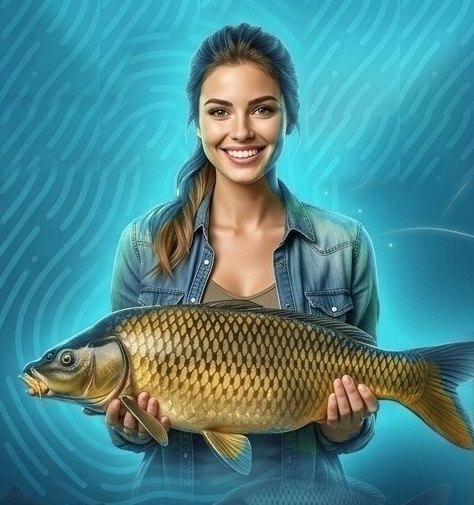
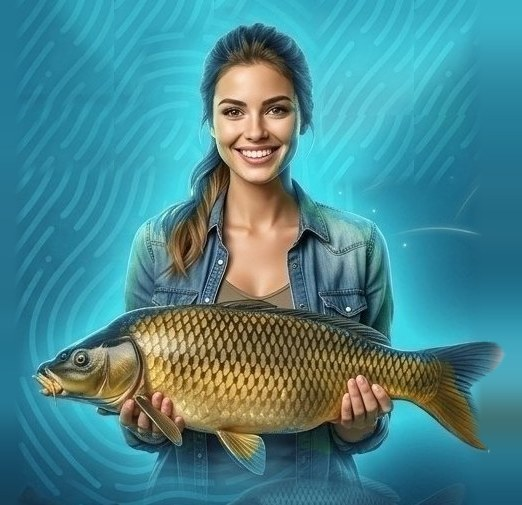
риба

diff --git a/public/ru/fishing-app.html b/public/ru/fishing-app.html
@@ -56,7 +56,7 @@
 <nav class="main" aria-label="Страницы"><a href="/ru/fishing-app" aria-current="page">О приложении</a><a href="/ru/fishing-diary">Рыболовный дневник</a><a href="/ru/catch-statistics">Статистика</a><a href="/ru/offline-fishing-app">Без интернета</a><a href="/ru/waters-and-competitions">Водоёмы и соревнования</a><a href="/ru/install">Установка</a><a href="/ru/contact">Контакты</a></nav>
 </div></header>
 <main><div class="wrap"><article>
-<section class="hero"><div class="hero-text"><p class="hero-title">Лови момент. Сохрани улов.</p><p class="hero-tag">Твоя рыбалка. Одно приложение.</p><ul><li>Записывай свой улов</li><li>Открывай новые водоёмы</li><li>Следи за своими рыболовными приключениями</li><li>Найди всё нужное для следующей вылазки</li></ul><a class="open" href="/register">Создать профиль</a></div><img class="hero-img" src="/img/woman-with-carp.jpg" width="474" height="505" alt="Улыбающаяся женщина держит крупного карпа"></section>
+<section class="hero"><div class="hero-text"><p class="hero-title">Лови момент. Сохрани улов.</p><p class="hero-tag">Твоя рыбалка. Одно приложение.</p><ul><li>Записывай свой улов</li><li>Открывай новые водоёмы</li><li>Следи за своими рыболовными приключениями</li><li>Найди всё нужное для следующей вылазки</li></ul><a class="open" href="/register">Создать профиль</a></div><img class="hero-img" src="/img/woman-with-carp.jpg" width="522" height="505" alt="Улыбающаяся женщина держит крупного карпа"></section>
 <h1>Рыболовное приложение: дневник и статистика уловов</h1>
 <p class="lead">CatchCount — рыболовный дневник для телефона. Вы записываете улов несколькими касаниями прямо на берегу, а приложение собирает данные и показывает, что и где действительно работает.</p>
 <figure class="shot"><img src="/img/catchcount-app-screens.jpg" width="440" height="302" loading="lazy" alt="Экраны приложения CatchCount: активная сессия с таймером, календарь сессий и детали улова"></figure>

diff --git a/public/uk/fishing-app.html b/public/uk/fishing-app.html
@@ -56,7 +56,7 @@
 <nav class="main" aria-label="Сторінки"><a href="/uk/fishing-app" aria-current="page">Про застосунок</a><a href="/uk/fishing-diary">Рибальський щоденник</a><a href="/uk/catch-statistics">Статистика</a><a href="/uk/offline-fishing-app">Без інтернету</a><a href="/uk/waters-and-competitions">Водойми та змагання</a><a href="/uk/install">Встановлення</a><a href="/uk/contact">Контакти</a></nav>
 </div></header>
 <main><div class="wrap"><article>
-<section class="hero"><div class="hero-text"><p class="hero-title">Лови мить. Збережи улов.</p><p class="hero-tag">Твоя риболовля. Один застосунок.</p><ul><li>Записуй свій улов</li><li>Відкривай нові водойми</li><li>Стеж за своїми рибальськими пригодами</li><li>Знайди все потрібне для наступного виїзду</li></ul><a class="open" href="/register">Створити профіль</a></div><img class="hero-img" src="/img/woman-with-carp.jpg" width="474" height="505" alt="Усміхнена жінка тримає великого коропа"></section>
+<section class="hero"><div class="hero-text"><p class="hero-title">Лови мить. Збережи улов.</p><p class="hero-tag">Твоя риболовля. Один застосунок.</p><ul><li>Записуй свій улов</li><li>Відкривай нові водойми</li><li>Стеж за своїми рибальськими пригодами</li><li>Знайди все потрібне для наступного виїзду</li></ul><a class="open" href="/register">Створити профіль</a></div><img class="hero-img" src="/img/woman-with-carp.jpg" width="522" height="505" alt="Усміхнена жінка тримає великого коропа"></section>
 <h1>Рибальський застосунок для щоденника та статистики уловів</h1>
 <p class="lead">CatchCount — це рибальський щоденник для телефона. Ти записуєш улов кількома дотиками просто на березі, а застосунок збирає дані й показує, що і де справді працює.</p>
 <figure class="shot"><img src="/img/catchcount-app-screens.jpg" width="440" height="302" loading="lazy" alt="Екрани застосунку CatchCount: активна сесія з таймером, календар сесій і деталі улову"></figure>

diff --git a/public/mk/fishing-app.html b/public/mk/fishing-app.html
@@ -56,7 +56,7 @@
 <nav class="main" aria-label="Страници"><a href="/mk/fishing-app" aria-current="page">За апликацијата</a><a href="/mk/fishing-diary">Риболовен дневник</a><a href="/mk/catch-statistics">Статистика</a><a href="/mk/offline-fishing-app">Без интернет</a><a href="/mk/waters-and-competitions">Водоеми и натпревари</a><a href="/mk/install">Инсталирање</a><a href="/mk/contact">Контакт</a></nav>
 </div></header>
 <main><div class="wrap"><article>
-<section class="hero"><div class="hero-text"><p class="hero-title">Фати го моментот. Зачувај го уловот.</p><p class="hero-tag">Твојот риболов. Една апликација.</p><ul><li>Запишувај го уловот</li><li>Откривај водоеми</li><li>Следи ги риболовните авантури</li><li>Најди сè што ти треба за следниот излет</li></ul><a class="open" href="/register">Креирај профил</a></div><img class="hero-img" src="/img/woman-with-carp.jpg" width="474" height="505" alt="Насмеана жена држи голем шаран"></section>
+<section class="hero"><div class="hero-text"><p class="hero-title">Фати го моментот. Зачувај го уловот.</p><p class="hero-tag">Твојот риболов. Една апликација.</p><ul><li>Запишувај го уловот</li><li>Откривај водоеми</li><li>Следи ги риболовните авантури</li><li>Најди сè што ти треба за следниот излет</li></ul><a class="open" href="/register">Креирај профил</a></div><img class="hero-img" src="/img/woman-with-carp.jpg" width="522" height="505" alt="Насмеана жена држи голем шаран"></section>
 <h1>Риболовна апликација за дневник и статистика на уловите</h1>
 <p class="lead">CatchCount е риболовен дневник за телефон. Го запишуваш уловот со неколку допири веднаш на брегот, а апликацијата ги собира податоците и ти покажува што и каде навистина функционира.</p>
 <figure class="shot"><img src="/img/catchcount-app-screens.jpg" width="440" height="302" loading="lazy" alt="Екрани од апликацијата CatchCount: активна сесија со тајмер, календар на сесиите и детали за улов"></figure>

diff --git a/public/ribolovno-prilozhenie.html b/public/ribolovno-prilozhenie.html
@@ -56,7 +56,7 @@
 <nav class="main" aria-label="Страници"><a href="/ribolovno-prilozhenie" aria-current="page">За приложението</a><a href="/riboloven-dnevnik">Риболовен дневник</a><a href="/statistika-na-ulovite">Статистика</a><a href="/ribolov-bez-internet">Без интернет</a><a href="/vodoemi-i-sastezaniya">Водоеми и състезания</a><a href="/kak-da-instalirate">Инсталиране</a><a href="/kontakti">Контакти</a></nav>
 </div></header>
 <main><div class="wrap"><article>
-<section class="hero"><div class="hero-text"><p class="hero-title">Хвани момента. Запази улова.</p><p class="hero-tag">Твоят риболов. Едно приложение.</p><ul><li>Записвай улова си</li><li>Откривай водоеми</li><li>Следи риболовните си приключения</li><li>Намери всичко необходимо за следващия излет</li></ul><a class="open" href="/register">Създай профил</a></div><img class="hero-img" src="/img/woman-with-carp.jpg" width="474" height="505" alt="Усмихната жена държи голям шаран"></section>
+<section class="hero"><div class="hero-text"><p class="hero-title">Хвани момента. Запази улова.</p><p class="hero-tag">Твоят риболов. Едно приложение.</p><ul><li>Записвай улова си</li><li>Откривай водоеми</li><li>Следи риболовните си приключения</li><li>Намери всичко необходимо за следващия излет</li></ul><a class="open" href="/register">Създай профил</a></div><img class="hero-img" src="/img/woman-with-carp.jpg" width="522" height="505" alt="Усмихната жена държи голям шаран"></section>
 <h1>Риболовно приложение за дневник и статистика на уловите</h1>
 <p class="lead">CatchCount е риболовен дневник за телефона. Записваш улова с няколко докосвания още на брега, а приложението събира данните и ти показва какво и къде наистина работи.</p>
 <figure class="shot"><img src="/img/catchcount-app-screens.jpg" width="440" height="302" loading="lazy" alt="Екрани на приложението CatchCount: активна сесия с таймер, календар на сесиите и детайли за улов"></figure>

diff --git a/public/fr/fishing-app.html b/public/fr/fishing-app.html
@@ -56,7 +56,7 @@
 <nav class="main" aria-label="Pages"><a href="/fr/fishing-app" aria-current="page">L&#x27;application</a><a href="/fr/fishing-diary">Carnet de pêche</a><a href="/fr/catch-statistics">Statistiques</a><a href="/fr/offline-fishing-app">Sans internet</a><a href="/fr/waters-and-competitions">Plans d&#x27;eau, compétitions</a><a href="/fr/install">Installation</a><a href="/fr/contact">Contact</a></nav>
 </div></header>
 <main><div class="wrap"><article>
-<section class="hero"><div class="hero-text"><p class="hero-title">Capture l&#x27;instant. Garde ta prise.</p><p class="hero-tag">Ta pêche. Une seule appli.</p><ul><li>Note tes prises</li><li>Découvre des plans d&#x27;eau</li><li>Suis tes aventures de pêche</li><li>Trouve tout ce qu&#x27;il te faut pour ta prochaine sortie</li></ul><a class="open" href="/register">Créer un compte</a></div><img class="hero-img" src="/img/woman-with-carp.jpg" width="474" height="505" alt="Une femme souriante tient une grosse carpe commune"></section>
+<section class="hero"><div class="hero-text"><p class="hero-title">Capture l&#x27;instant. Garde ta prise.</p><p class="hero-tag">Ta pêche. Une seule appli.</p><ul><li>Note tes prises</li><li>Découvre des plans d&#x27;eau</li><li>Suis tes aventures de pêche</li><li>Trouve tout ce qu&#x27;il te faut pour ta prochaine sortie</li></ul><a class="open" href="/register">Créer un compte</a></div><img class="hero-img" src="/img/woman-with-carp.jpg" width="522" height="505" alt="Une femme souriante tient une grosse carpe commune"></section>
 <h1>Application de pêche : carnet et statistiques de captures</h1>
 <p class="lead">CatchCount est un carnet de pêche pour ton téléphone. Tu enregistres ta prise en quelques touches, directement sur la berge, et l'application rassemble les données pour te montrer ce qui marche vraiment, et où.</p>
 <figure class="shot"><img src="/img/catchcount-app-screens.jpg" width="440" height="302" loading="lazy" alt="Écrans de l&#x27;application CatchCount : session active avec minuteur, calendrier des sessions et détails d&#x27;une prise"></figure>

diff --git a/public/ro/fishing-app.html b/public/ro/fishing-app.html
@@ -56,7 +56,7 @@
 <nav class="main" aria-label="Pagini"><a href="/ro/fishing-app" aria-current="page">Despre aplicație</a><a href="/ro/fishing-diary">Jurnal de pescuit</a><a href="/ro/catch-statistics">Statistici</a><a href="/ro/offline-fishing-app">Fără internet</a><a href="/ro/waters-and-competitions">Bazine și concursuri</a><a href="/ro/install">Instalare</a><a href="/ro/contact">Contact</a></nav>
 </div></header>
 <main><div class="wrap"><article>
-<section class="hero"><div class="hero-text"><p class="hero-title">Prinde momentul. Păstrează captura.</p><p class="hero-tag">Pescuitul tău. O singură aplicație.</p><ul><li>Înregistrează-ți capturile</li><li>Descoperă bazine</li><li>Urmărește-ți aventurile de pescuit</li><li>Găsește tot ce ai nevoie pentru următoarea ieșire</li></ul><a class="open" href="/register">Creează un cont</a></div><img class="hero-img" src="/img/woman-with-carp.jpg" width="474" height="505" alt="O femeie zâmbitoare ține în mâini un crap mare"></section>
+<section class="hero"><div class="hero-text"><p class="hero-title">Prinde momentul. Păstrează captura.</p><p class="hero-tag">Pescuitul tău. O singură aplicație.</p><ul><li>Înregistrează-ți capturile</li><li>Descoperă bazine</li><li>Urmărește-ți aventurile de pescuit</li><li>Găsește tot ce ai nevoie pentru următoarea ieșire</li></ul><a class="open" href="/register">Creează un cont</a></div><img class="hero-img" src="/img/woman-with-carp.jpg" width="522" height="505" alt="O femeie zâmbitoare ține în mâini un crap mare"></section>
 <h1>Aplicație de pescuit pentru jurnal și statistici ale capturilor</h1>
 <p class="lead">CatchCount este un jurnal de pescuit pentru telefon. Îți înregistrezi captura din câteva atingeri, chiar pe mal, iar aplicația adună datele și îți arată ce funcționează cu adevărat și unde.</p>
 <figure class="shot"><img src="/img/catchcount-app-screens.jpg" width="440" height="302" loading="lazy" alt="Ecrane ale aplicației CatchCount: sesiune activă cu cronometru, calendarul sesiunilor și detaliile unei capturi"></figure>

diff --git a/public/hu/fishing-app.html b/public/hu/fishing-app.html
@@ -56,7 +56,7 @@
 <nav class="main" aria-label="Oldalak"><a href="/hu/fishing-app" aria-current="page">Az appról</a><a href="/hu/fishing-diary">Horgásznapló</a><a href="/hu/catch-statistics">Statisztika</a><a href="/hu/offline-fishing-app">Internet nélkül</a><a href="/hu/waters-and-competitions">Vizek és versenyek</a><a href="/hu/install">Telepítés</a><a href="/hu/contact">Kapcsolat</a></nav>
 </div></header>
 <main><div class="wrap"><article>
-<section class="hero"><div class="hero-text"><p class="hero-title">Kapd el a pillanatot. Őrizd meg a fogást.</p><p class="hero-tag">A te horgászatod. Egyetlen app.</p><ul><li>Rögzítsd a fogásaidat</li><li>Fedezz fel új vizeket</li><li>Kövesd a horgászkalandjaidat</li><li>Találj meg mindent a következő kiránduláshoz</li></ul><a class="open" href="/register">Fiók létrehozása</a></div><img class="hero-img" src="/img/woman-with-carp.jpg" width="474" height="505" alt="Mosolygó nő egy nagy pontyot tart a kezében"></section>
+<section class="hero"><div class="hero-text"><p class="hero-title">Kapd el a pillanatot. Őrizd meg a fogást.</p><p class="hero-tag">A te horgászatod. Egyetlen app.</p><ul><li>Rögzítsd a fogásaidat</li><li>Fedezz fel új vizeket</li><li>Kövesd a horgászkalandjaidat</li><li>Találj meg mindent a következő kiránduláshoz</li></ul><a class="open" href="/register">Fiók létrehozása</a></div><img class="hero-img" src="/img/woman-with-carp.jpg" width="522" height="505" alt="Mosolygó nő egy nagy pontyot tart a kezében"></section>
 <h1>Horgászalkalmazás fogásnaplóhoz és statisztikához</h1>
 <p class="lead">A CatchCount egy horgásznapló a telefonodra. Néhány koppintással rögzíted a fogást még a parton, az alkalmazás pedig összegyűjti az adatokat, és megmutatja, mi és hol működik igazán.</p>
 <figure class="shot"><img src="/img/catchcount-app-screens.jpg" width="440" height="302" loading="lazy" alt="A CatchCount alkalmazás képernyői: aktív munkamenet időmérővel, a munkamenetek naptára és a fogás részletei"></figure>

diff --git a/public/it/fishing-app.html b/public/it/fishing-app.html
@@ -56,7 +56,7 @@
 <nav class="main" aria-label="Pagine"><a href="/it/fishing-app" aria-current="page">L&#x27;app</a><a href="/it/fishing-diary">Diario di pesca</a><a href="/it/catch-statistics">Statistiche</a><a href="/it/offline-fishing-app">Senza internet</a><a href="/it/waters-and-competitions">Acque e gare</a><a href="/it/install">Installazione</a><a href="/it/contact">Contatti</a></nav>
 </div></header>
 <main><div class="wrap"><article>
-<section class="hero"><div class="hero-text"><p class="hero-title">Cogli l&#x27;attimo. Conserva la cattura.</p><p class="hero-tag">La tua pesca. Un&#x27;unica app.</p><ul><li>Registra le tue catture</li><li>Scopri nuovi specchi d&#x27;acqua</li><li>Segui le tue avventure di pesca</li><li>Trova tutto il necessario per la prossima uscita</li></ul><a class="open" href="/register">Crea un profilo</a></div><img class="hero-img" src="/img/woman-with-carp.jpg" width="474" height="505" alt="Donna sorridente che tiene in mano una grossa carpa"></section>
+<section class="hero"><div class="hero-text"><p class="hero-title">Cogli l&#x27;attimo. Conserva la cattura.</p><p class="hero-tag">La tua pesca. Un&#x27;unica app.</p><ul><li>Registra le tue catture</li><li>Scopri nuovi specchi d&#x27;acqua</li><li>Segui le tue avventure di pesca</li><li>Trova tutto il necessario per la prossima uscita</li></ul><a class="open" href="/register">Crea un profilo</a></div><img class="hero-img" src="/img/woman-with-carp.jpg" width="522" height="505" alt="Donna sorridente che tiene in mano una grossa carpa"></section>
 <h1>App di pesca per il diario e le statistiche delle catture</h1>
 <p class="lead">CatchCount è un diario di pesca per il tuo smartphone. Registri la cattura con pochi tocchi direttamente in riva, e l'app raccoglie i dati e ti mostra cosa funziona davvero e dove.</p>
 <figure class="shot"><img src="/img/catchcount-app-screens.jpg" width="440" height="302" loading="lazy" alt="Schermate dell&#x27;app CatchCount: sessione attiva con timer, calendario delle sessioni e dettagli di una cattura"></figure>

diff --git a/public/tr/fishing-app.html b/public/tr/fishing-app.html
@@ -56,7 +56,7 @@
 <nav class="main" aria-label="Sayfalar"><a href="/tr/fishing-app" aria-current="page">Uygulama Hakkında</a><a href="/tr/fishing-diary">Balık Günlüğü</a><a href="/tr/catch-statistics">İstatistikler</a><a href="/tr/offline-fishing-app">İnternetsiz Kullanım</a><a href="/tr/waters-and-competitions">Sular ve Yarışmalar</a><a href="/tr/install">Kurulum</a><a href="/tr/contact">İletişim</a></nav>
 </div></header>
 <main><div class="wrap"><article>
-<section class="hero"><div class="hero-text"><p class="hero-title">Anı yakala. Avı sakla.</p><p class="hero-tag">Senin balık avın. Tek uygulama.</p><ul><li>Avlarını kaydet</li><li>Su alanlarını keşfet</li><li>Balık avı maceralarını takip et</li><li>Bir sonraki av için gereken her şeyi bul</li></ul><a class="open" href="/register">Hesap oluştur</a></div><img class="hero-img" src="/img/woman-with-carp.jpg" width="474" height="505" alt="Gülümseyen bir kadın büyük bir sazan tutuyor"></section>
+<section class="hero"><div class="hero-text"><p class="hero-title">Anı yakala. Avı sakla.</p><p class="hero-tag">Senin balık avın. Tek uygulama.</p><ul><li>Avlarını kaydet</li><li>Su alanlarını keşfet</li><li>Balık avı maceralarını takip et</li><li>Bir sonraki av için gereken her şeyi bul</li></ul><a class="open" href="/register">Hesap oluştur</a></div><img class="hero-img" src="/img/woman-with-carp.jpg" width="522" height="505" alt="Gülümseyen bir kadın büyük bir sazan tutuyor"></section>
 <h1>Av günlüğü ve istatistik için balıkçılık uygulaması</h1>
 <p class="lead">CatchCount, telefonun için bir balık günlüğü. Avını daha kıyıdayken birkaç dokunuşla kaydedersin; uygulama verileri toplar ve gerçekte neyin, nerede işe yaradığını gösterir.</p>
 <figure class="shot"><img src="/img/catchcount-app-screens.jpg" width="440" height="302" loading="lazy" alt="CatchCount uygulaması ekranları: zamanlayıcılı aktif seans, seans takvimi ve av ayrıntıları"></figure>

diff --git a/public/es/fishing-app.html b/public/es/fishing-app.html
@@ -56,7 +56,7 @@
 <nav class="main" aria-label="Páginas"><a href="/es/fishing-app" aria-current="page">La app</a><a href="/es/fishing-diary">Diario de pesca</a><a href="/es/catch-statistics">Estadísticas</a><a href="/es/offline-fishing-app">Sin internet</a><a href="/es/waters-and-competitions">Aguas y competiciones</a><a href="/es/install">Instalación</a><a href="/es/contact">Contacto</a></nav>
 </div></header>
 <main><div class="wrap"><article>
-<section class="hero"><div class="hero-text"><p class="hero-title">Atrapa el momento. Guarda la captura.</p><p class="hero-tag">Tu pesca. Una sola app.</p><ul><li>Registra tus capturas</li><li>Descubre nuevas aguas</li><li>Sigue tus aventuras de pesca</li><li>Encuentra todo lo necesario para tu próxima salida</li></ul><a class="open" href="/register">Crear cuenta</a></div><img class="hero-img" src="/img/woman-with-carp.jpg" width="474" height="505" alt="Mujer sonriente sosteniendo una gran carpa común"></section>
+<section class="hero"><div class="hero-text"><p class="hero-title">Atrapa el momento. Guarda la captura.</p><p class="hero-tag">Tu pesca. Una sola app.</p><ul><li>Registra tus capturas</li><li>Descubre nuevas aguas</li><li>Sigue tus aventuras de pesca</li><li>Encuentra todo lo necesario para tu próxima salida</li></ul><a class="open" href="/register">Crear cuenta</a></div><img class="hero-img" src="/img/woman-with-carp.jpg" width="522" height="505" alt="Mujer sonriente sosteniendo una gran carpa común"></section>
 <h1>App de pesca: diario y estadísticas de capturas</h1>
 <p class="lead">CatchCount es un diario de pesca para el móvil. Registras la captura con unos toques en la orilla, y la aplicación reúne los datos y te muestra qué funciona de verdad y dónde.</p>
 <figure class="shot"><img src="/img/catchcount-app-screens.jpg" width="440" height="302" loading="lazy" alt="Pantallas de la aplicación CatchCount: sesión activa con cronómetro, calendario de sesiones y detalles de una captura"></figure>

diff --git a/public/sk/fishing-app.html b/public/sk/fishing-app.html
@@ -56,7 +56,7 @@
 <nav class="main" aria-label="Stránky"><a href="/sk/fishing-app" aria-current="page">O aplikácii</a><a href="/sk/fishing-diary">Rybársky denník</a><a href="/sk/catch-statistics">Štatistiky</a><a href="/sk/offline-fishing-app">Bez internetu</a><a href="/sk/waters-and-competitions">Vodné plochy a súťaže</a><a href="/sk/install">Inštalácia</a><a href="/sk/contact">Kontakt</a></nav>
 </div></header>
 <main><div class="wrap"><article>
-<section class="hero"><div class="hero-text"><p class="hero-title">Chyť okamih. Uchovaj úlovok.</p><p class="hero-tag">Tvoje rybárčenie. Jedna aplikácia.</p><ul><li>Zapisuj svoje úlovky</li><li>Objavuj vodné plochy</li><li>Sleduj svoje rybárske dobrodružstvá</li><li>Nájdi všetko potrebné na ďalší výlet</li></ul><a class="open" href="/register">Vytvoriť profil</a></div><img class="hero-img" src="/img/woman-with-carp.jpg" width="474" height="505" alt="Usmievavá žena drží veľkého kapra"></section>
+<section class="hero"><div class="hero-text"><p class="hero-title">Chyť okamih. Uchovaj úlovok.</p><p class="hero-tag">Tvoje rybárčenie. Jedna aplikácia.</p><ul><li>Zapisuj svoje úlovky</li><li>Objavuj vodné plochy</li><li>Sleduj svoje rybárske dobrodružstvá</li><li>Nájdi všetko potrebné na ďalší výlet</li></ul><a class="open" href="/register">Vytvoriť profil</a></div><img class="hero-img" src="/img/woman-with-carp.jpg" width="522" height="505" alt="Usmievavá žena drží veľkého kapra"></section>
 <h1>Rybárska aplikácia na denník a štatistiky úlovkov</h1>
 <p class="lead">CatchCount je rybársky denník pre telefón. Úlovok zapíšeš niekoľkými ťuknutiami priamo pri vode a aplikácia zozbiera údaje a ukáže ti, čo a kde naozaj funguje.</p>
 <figure class="shot"><img src="/img/catchcount-app-screens.jpg" width="440" height="302" loading="lazy" alt="Obrazovky aplikácie CatchCount: aktívne sedenie s časovačom, kalendár sedení a detaily úlovku"></figure>

diff --git a/public/cs/fishing-app.html b/public/cs/fishing-app.html
@@ -56,7 +56,7 @@
 <nav class="main" aria-label="Stránky"><a href="/cs/fishing-app" aria-current="page">O aplikaci</a><a href="/cs/fishing-diary">Rybářský deník</a><a href="/cs/catch-statistics">Statistiky</a><a href="/cs/offline-fishing-app">Bez internetu</a><a href="/cs/waters-and-competitions">Vodní plochy a soutěže</a><a href="/cs/install">Instalace</a><a href="/cs/contact">Kontakt</a></nav>
 </div></header>
 <main><div class="wrap"><article>
-<section class="hero"><div class="hero-text"><p class="hero-title">Chyť okamžik. Uchovej úlovek.</p><p class="hero-tag">Tvoje rybaření. Jedna aplikace.</p><ul><li>Zapisuj své úlovky</li><li>Objevuj vodní plochy</li><li>Sleduj svá rybářská dobrodružství</li><li>Najdi vše potřebné na další výlet</li></ul><a class="open" href="/register">Vytvořit profil</a></div><img class="hero-img" src="/img/woman-with-carp.jpg" width="474" height="505" alt="Usmívající se žena drží velkého kapra"></section>
+<section class="hero"><div class="hero-text"><p class="hero-title">Chyť okamžik. Uchovej úlovek.</p><p class="hero-tag">Tvoje rybaření. Jedna aplikace.</p><ul><li>Zapisuj své úlovky</li><li>Objevuj vodní plochy</li><li>Sleduj svá rybářská dobrodružství</li><li>Najdi vše potřebné na další výlet</li></ul><a class="open" href="/register">Vytvořit profil</a></div><img class="hero-img" src="/img/woman-with-carp.jpg" width="522" height="505" alt="Usmívající se žena drží velkého kapra"></section>
 <h1>Rybářská aplikace pro deník a statistiky úlovků</h1>
 <p class="lead">CatchCount je rybářský deník do telefonu. Úlovek zapíšeš několika klepnutími přímo na břehu a aplikace data sesbírá a ukáže ti, co a kde opravdu funguje.</p>
 <figure class="shot"><img src="/img/catchcount-app-screens.jpg" width="440" height="302" loading="lazy" alt="Obrazovky aplikace CatchCount: aktivní sezení s časovačem, kalendář sezení a detaily úlovku"></figure>
